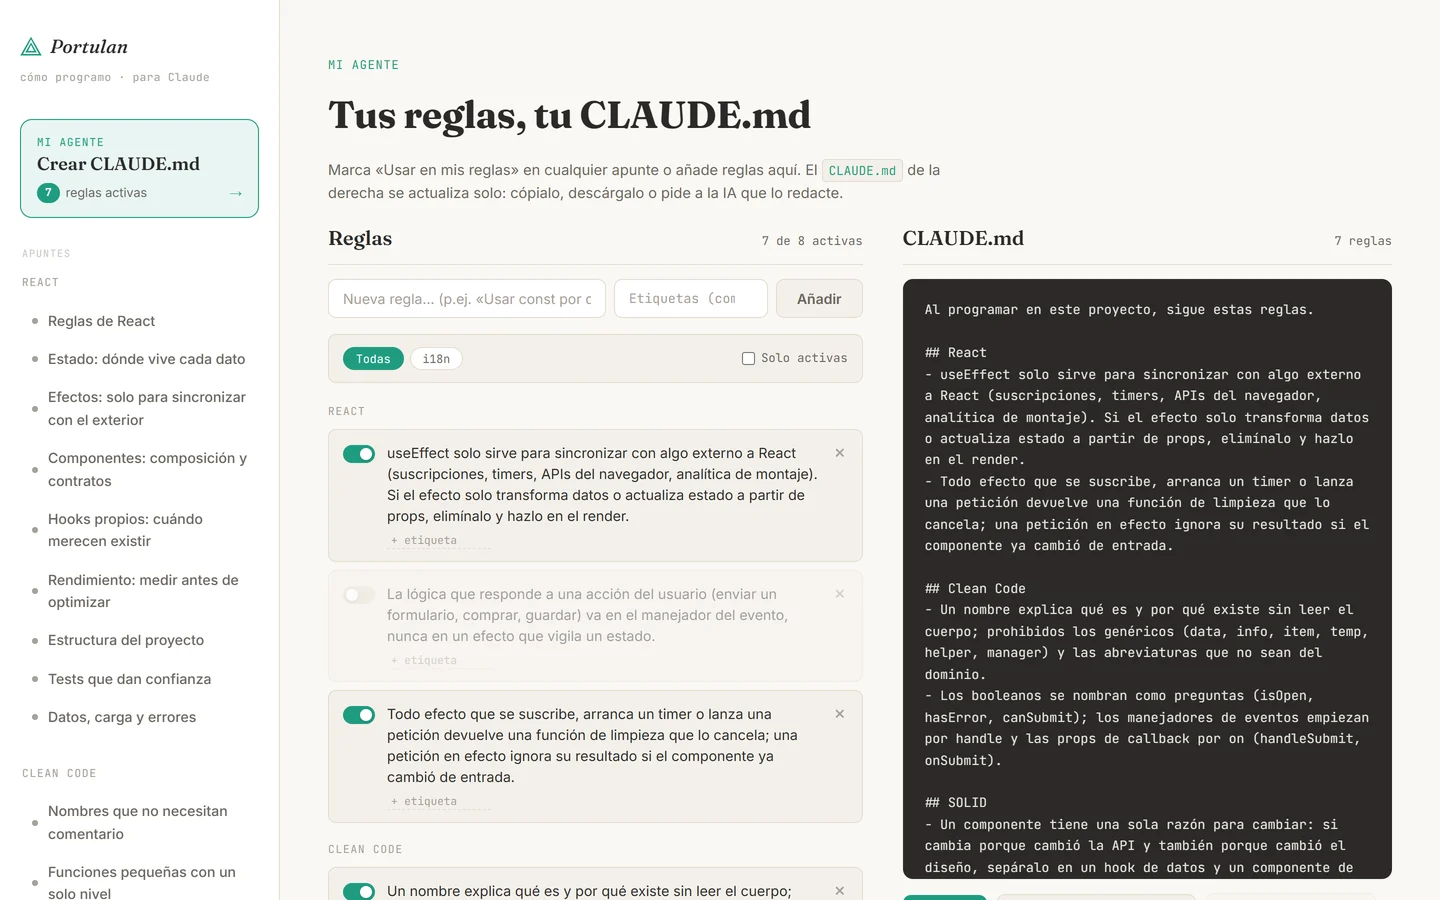
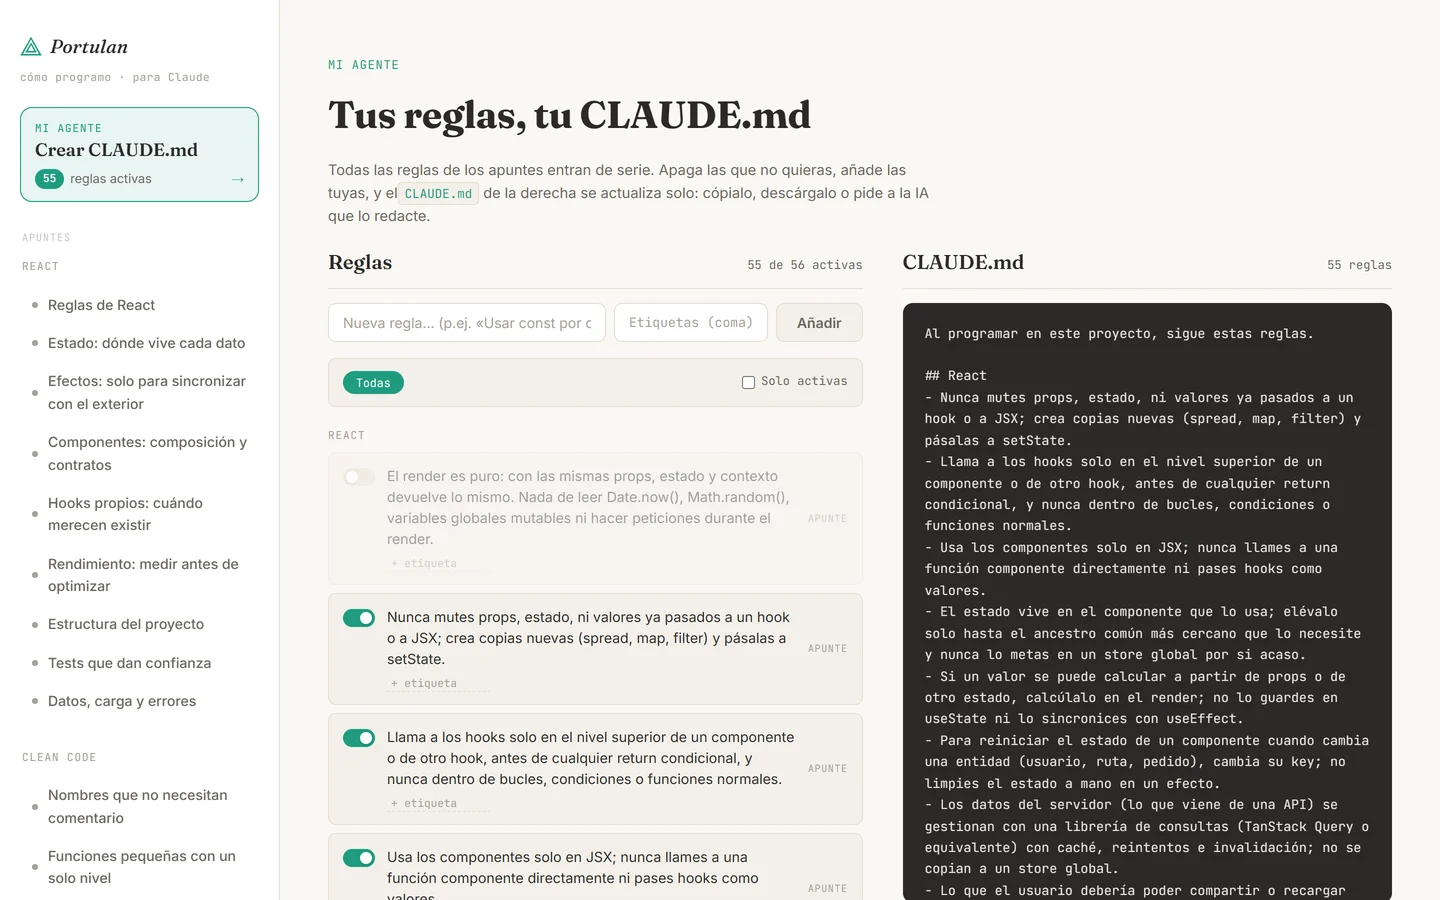
feat: notes rules on by default, one-page agent with live CLAUDE.md, home without redirect

diff --git a/src/styles/global.css b/src/styles/global.css
@@ -82,7 +82,7 @@ body {
   font-family:    var(--font-mono);
   font-size:      11px;
   color:          var(--text-faint);
-  margin-bottom:  32px;
+  margin-bottom:  20px;
   letter-spacing: 0.04em;
 }
 
@@ -1096,8 +1096,8 @@ pre.astro-code code {
 /* ===== AGENT CARD (sidebar) ===== */
 .agent-card {
   display:        block;
-  margin:         18px 0 28px;
-  padding:        14px 16px;
+  margin:         0 0 28px;
+  padding:        12px 14px;
   border:         1px solid var(--border);
   border-radius:  12px;
   background:     var(--bg-card);
@@ -1244,6 +1244,16 @@ pre.astro-code code {
 }
 
 .rules-group-title:first-child { margin-top: 0; }
+
+.rule-origin {
+  align-self:     center;
+  font-family:    var(--font-mono);
+  font-size:      10px;
+  letter-spacing: 0.06em;
+  text-transform: uppercase;
+  color:          var(--text-faint);
+  flex-shrink:    0;
+}
 
 .ai-section--collapsed { padding: 0; }
 

diff --git a/src/utils/noteRules.ts b/src/utils/noteRules.ts
@@ -1,0 +1,22 @@
+import { getCollection } from 'astro:content';
+
+export interface NoteRule {
+  text: string;
+  group: string;
+  post: string;
+}
+
+const RULE_ATTRIBUTE = /<RuleCheck\s+rule="([^"]+)"/g;
+
+export async function getNoteRules(): Promise<NoteRule[]> {
+  const posts = await getCollection('posts');
+  posts.sort((a, b) => a.data.order - b.data.order);
+
+  const rules: NoteRule[] = [];
+  for (const post of posts) {
+    for (const match of (post.body ?? '').matchAll(RULE_ATTRIBUTE)) {
+      rules.push({ text: match[1], group: post.data.group, post: post.data.title });
+    }
+  }
+  return rules;
+}

diff --git a/README.md b/README.md
@@ -53,9 +53,9 @@ flowchart LR
     style E fill:#2b2a28,color:#fff,stroke:none
 ```
 
-1. **Lees** el apunte de un tema
-2. **Marcas** "Usar en mis reglas de código" en los conceptos que quieres que aplique la IA
-3. **En «Mi agente»** el `CLAUDE.md` aparece al instante, por secciones (React, Clean Code, SOLID). Ahí puedes añadir reglas propias, activarlas o desactivarlas y etiquetarlas
+1. **Lees** el apunte de un tema. Todas sus reglas entran de serie en tu prompt
+2. **Desmarcas** "Usar en mis reglas de código" en lo que no vaya contigo; no hace falta marcar nada para empezar
+3. **En «Mi agente»** el `CLAUDE.md` aparece al instante, por secciones (React, Clean Code, SOLID). Ahí puedes apagar reglas, añadir las tuyas y etiquetarlas
 4. **Copias o descargas** el resultado, o pides a la IA (con tu API key) que lo redacte como un prompt fluido en vez de una lista
 
 ![Cada concepto termina con una casilla «Usar en mis reglas de código»: al marcarla, la regla pasa a tu prompt](assets/captura-regla.webp)
@@ -66,7 +66,7 @@ flowchart LR
 
 ## Qué trae de serie
 
-Catorce apuntes y 56 reglas listas para marcar. Nada de «qué es React»: lo que se pide en una revisión de código de un equipo grande.
+Catorce apuntes y 56 reglas que entran de serie en tu CLAUDE.md. Nada de «qué es React»: lo que se pide en una revisión de código de un equipo grande.
 
 | Grupo | Apuntes |
 |---|---|
@@ -74,7 +74,7 @@ Catorce apuntes y 56 reglas listas para marcar. Nada de «qué es React»: lo qu
 | **Clean Code** | Nombres · Funciones pequeñas con un solo nivel · Comentarios y documentación · Formato, tamaño y orden |
 | **SOLID** | Los cinco principios aplicados a componentes de React, con ejemplo mal / bien en cada uno |
 
-Cada regla está escrita para el prompt: imperativa, una sola decisión, comprobable al leer un diff, con la excepción dentro cuando la hay. Al marcarlas, el `CLAUDE.md` sale por secciones (React, Clean Code, SOLID). Borra las que no sean tuyas y añade las que te falten: para eso es un fork.
+Cada regla está escrita para el prompt: imperativa, una sola decisión, comprobable al leer un diff, con la excepción dentro cuando la hay. El `CLAUDE.md` sale por secciones (React, Clean Code, SOLID). Apaga las que no sean tuyas y añade las que te falten: para eso es un fork.
 
 <br />
 
